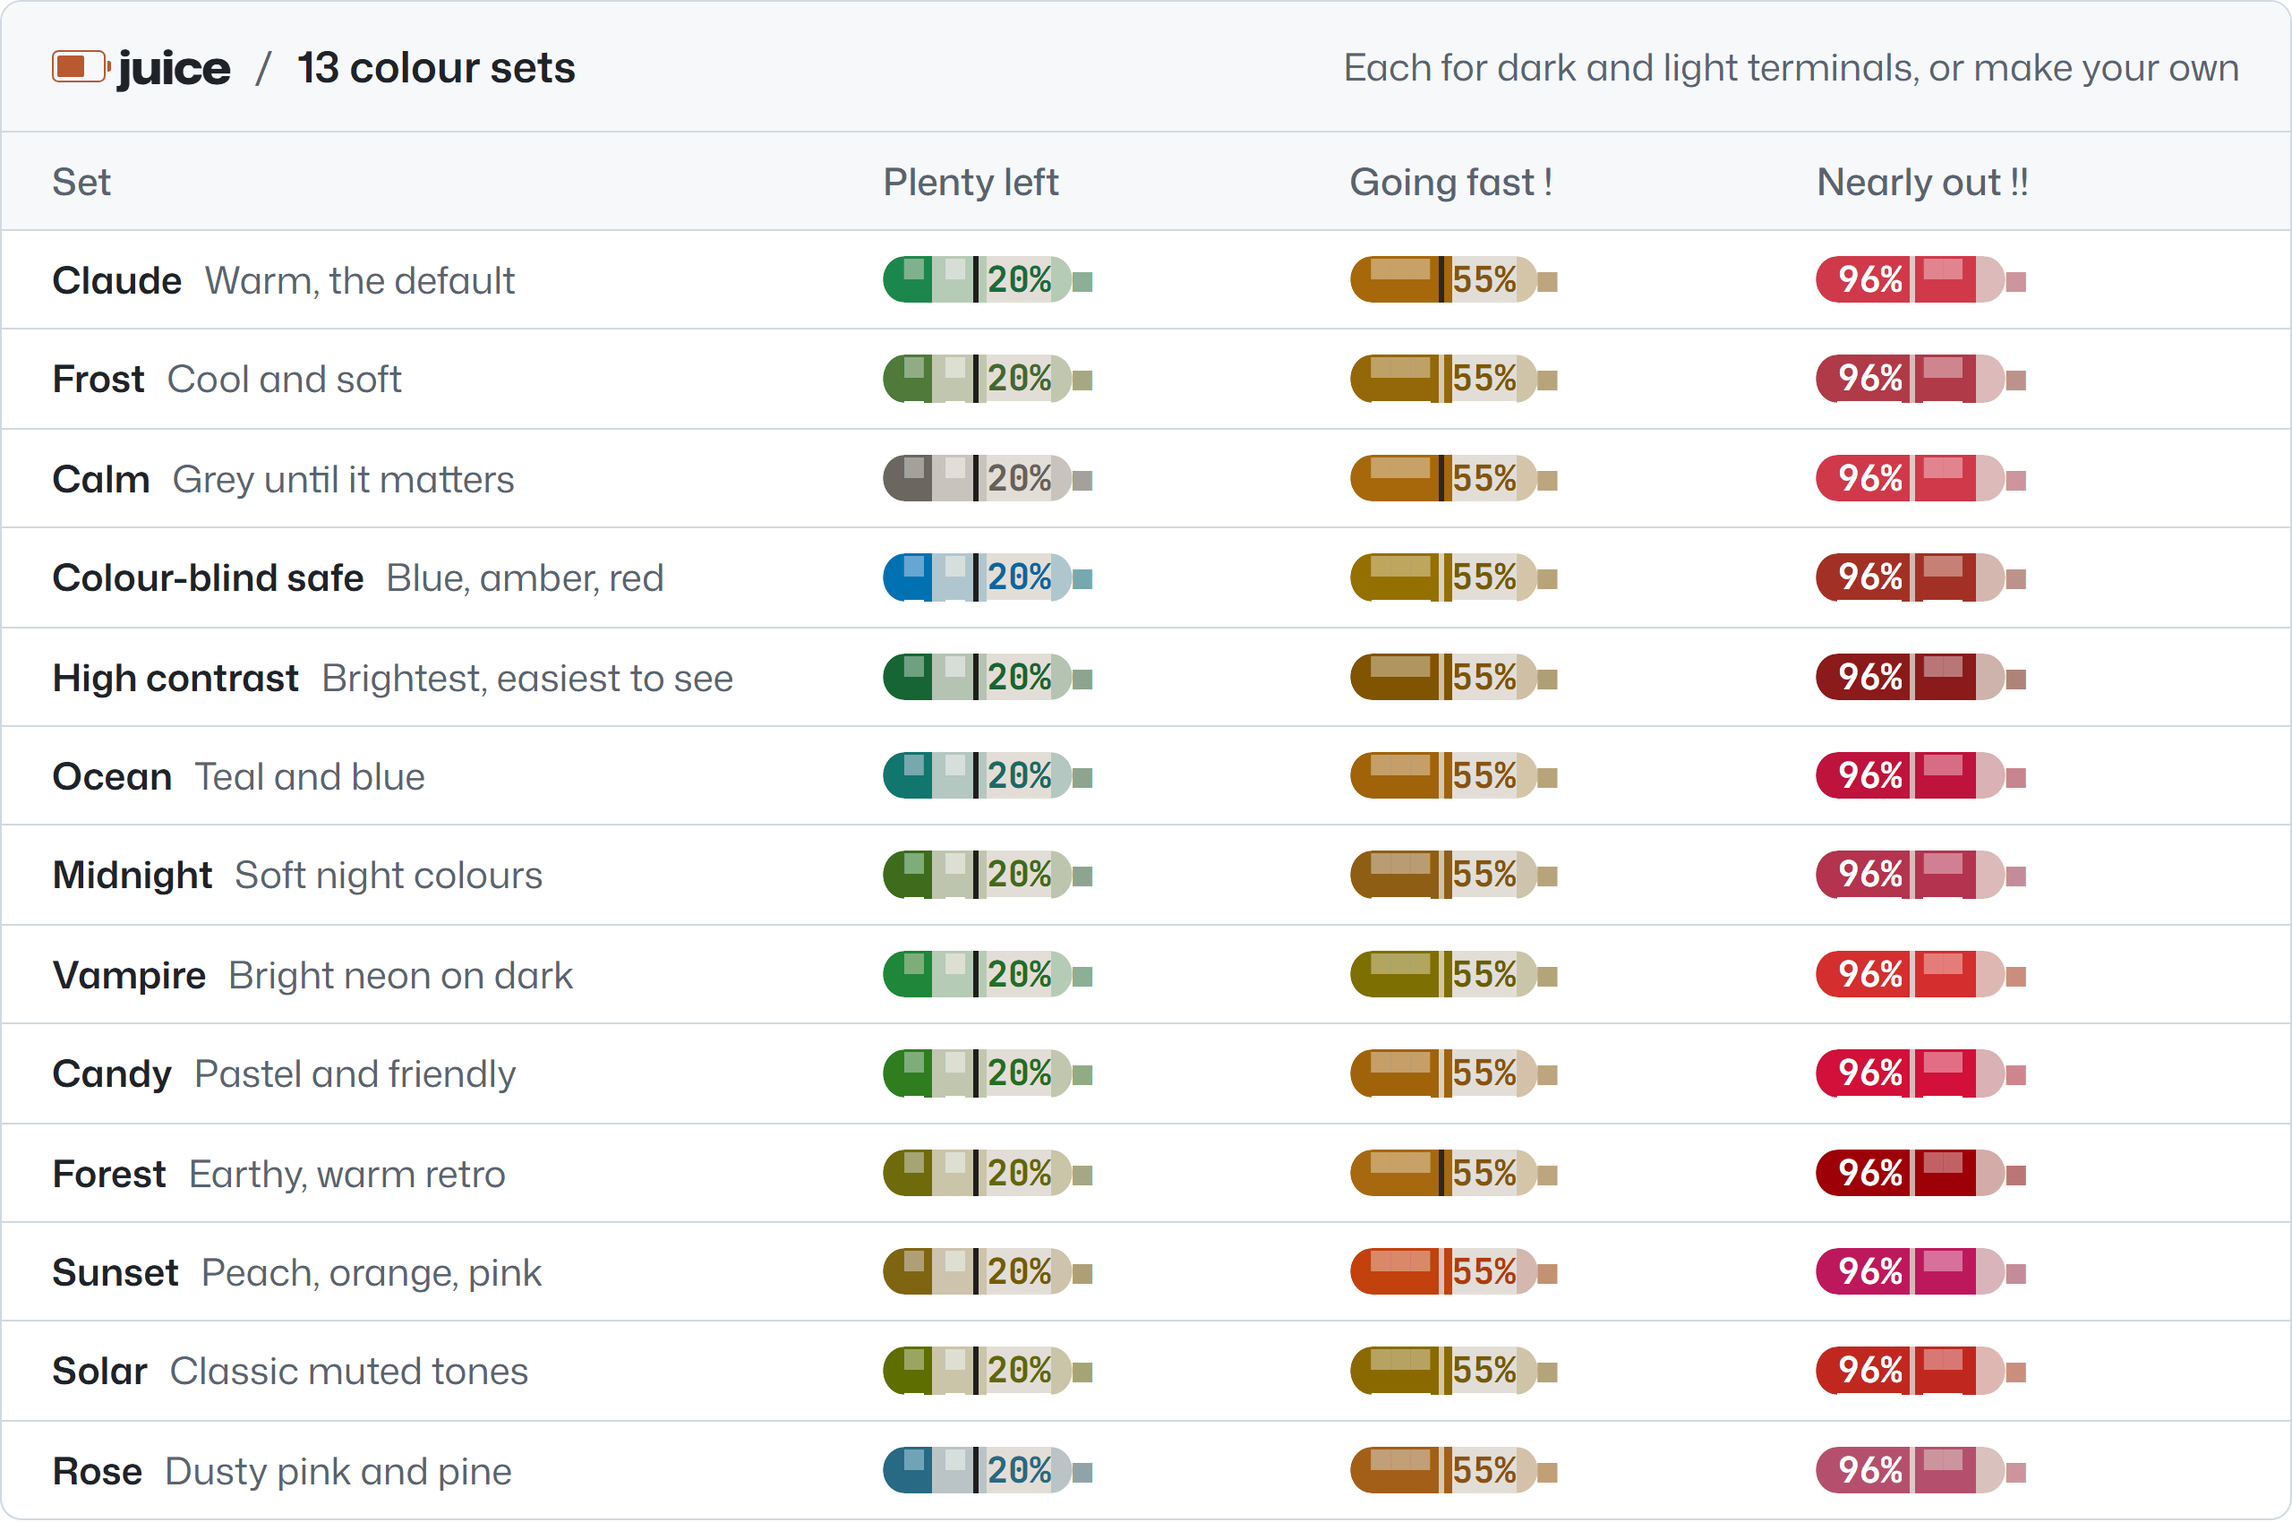
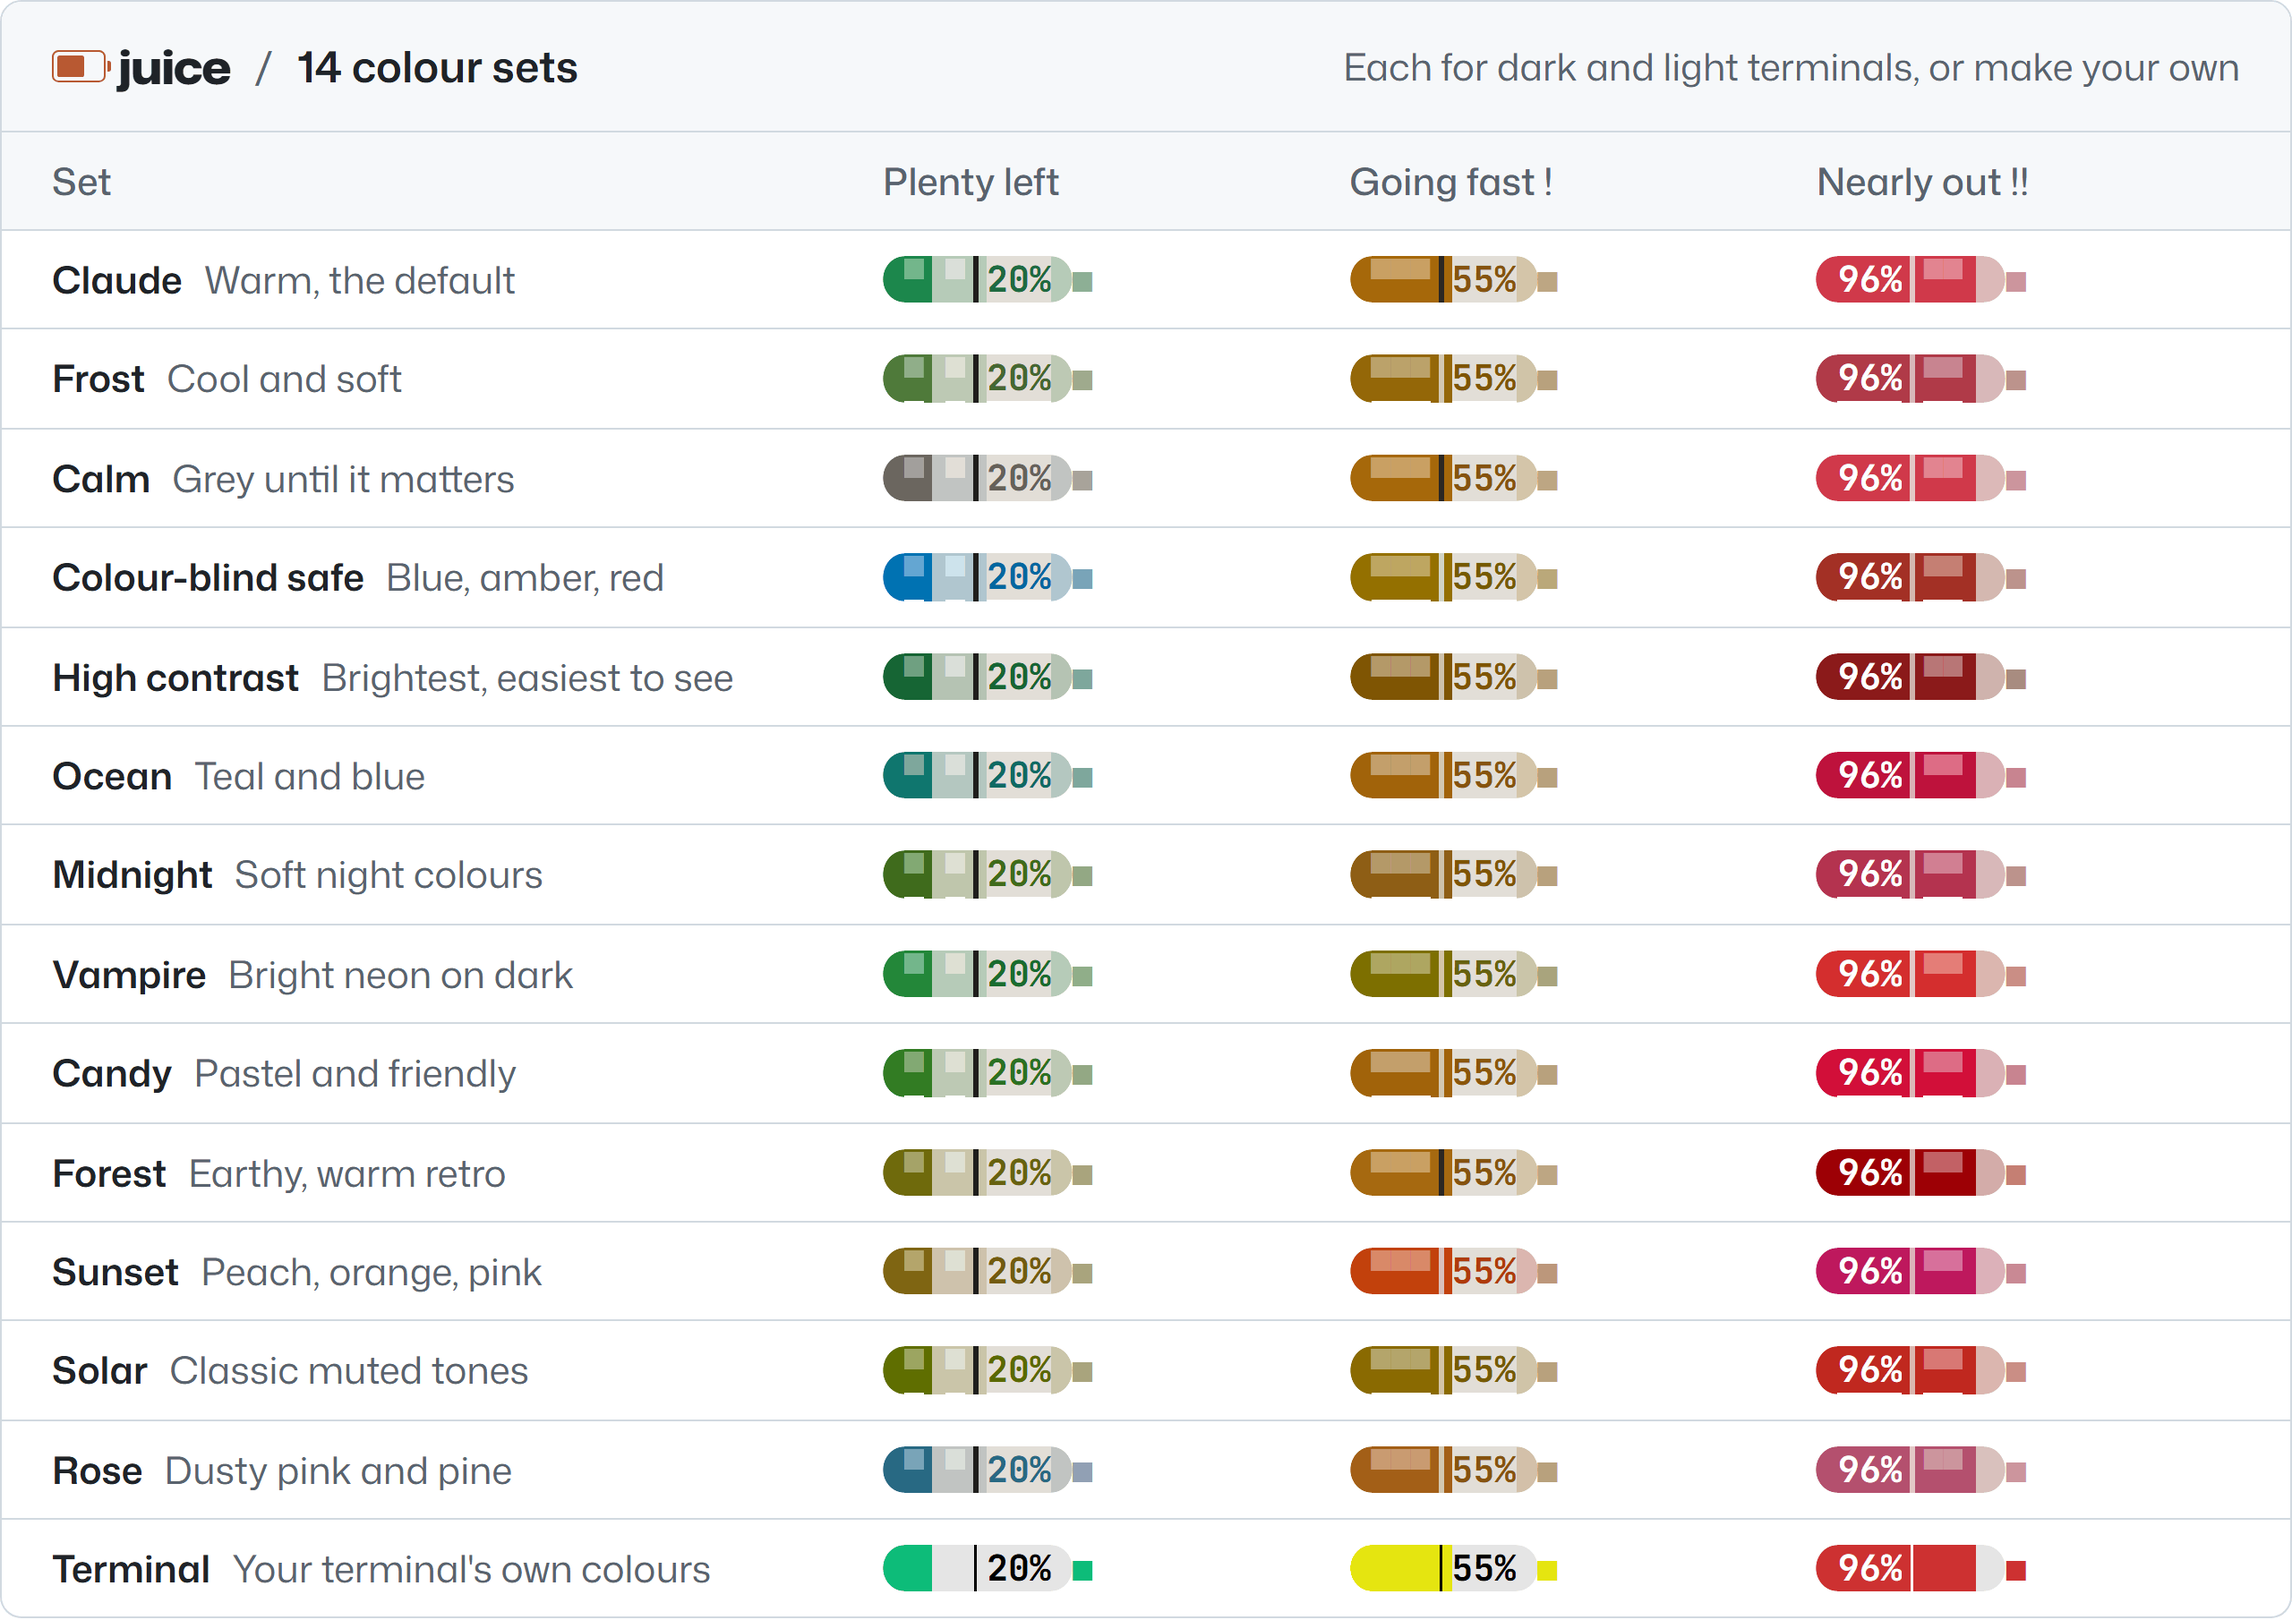
docs: pictures show 14 colour sets, Terminal among them
The colour-sets picture gains a Terminal row, drawn through to16 in
VS Code's default 16 colours (the customizer's palette). Alt text
counts 14.

diff --git a/README.md b/README.md
@@ -97,7 +97,7 @@ If you use the VS Code chat panel or the desktop app, open a terminal and type `
 
 <picture>
   <source media="(prefers-color-scheme: dark)" srcset="docs/images/features-dark.png">
-  <img src="docs/images/features-light.png" alt="What you get, in five rows: when every limit resets, shown right next to it; warnings you can't miss, amber ! when you are going fast and red !! when nearly out; Fable in its own violet battery; 14 looks and 13 colour sets, with colour-blind safe and light-terminal sets, and Session drawn in three of the looks, Night owl, Easy to see and Colour-blind friendly; and safe to try, because /juice restore brings your old status line back.">
+  <img src="docs/images/features-light.png" alt="What you get, in five rows: when every limit resets, shown right next to it; warnings you can't miss, amber ! when you are going fast and red !! when nearly out; Fable in its own violet battery; 14 looks and 14 colour sets, with colour-blind safe, light-terminal and terminal's-own-colours sets, and Session drawn in three of the looks, Night owl, Easy to see and Colour-blind friendly; and safe to try, because /juice restore brings your old status line back.">
 </picture>
 
 [The guide](docs/guide.md#what-the-batteries-mean) explains every battery, the thin line that marks an even pace, and the reset times.

diff --git a/docs/guide.md b/docs/guide.md
@@ -107,7 +107,7 @@ One more, Terminal (`/juice set colors=terminal`), draws in your terminal's own 
 
 <picture>
   <source media="(prefers-color-scheme: dark)" srcset="images/colour-sets-dark.png">
-  <img src="images/colour-sets-light.png" alt="All 13 colour sets, each with three batteries under the columns Plenty left, Going fast ! and Nearly out !!: Claude, Frost, Calm, Colour-blind safe, High contrast, Ocean, Midnight, Vampire, Candy, Forest, Sunset, Solar and Rose.">
+  <img src="images/colour-sets-light.png" alt="All 14 colour sets, each with three batteries under the columns Plenty left, Going fast ! and Nearly out !!: Claude, Frost, Calm, Colour-blind safe, High contrast, Ocean, Midnight, Vampire, Candy, Forest, Sunset, Solar, Rose and Terminal, shown in VS Code's default 16 colours.">
 </picture>
 
 ## Change how it looks
